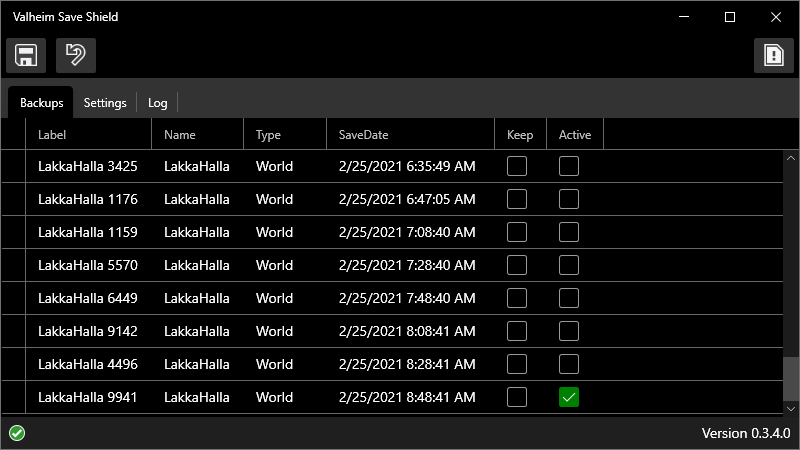
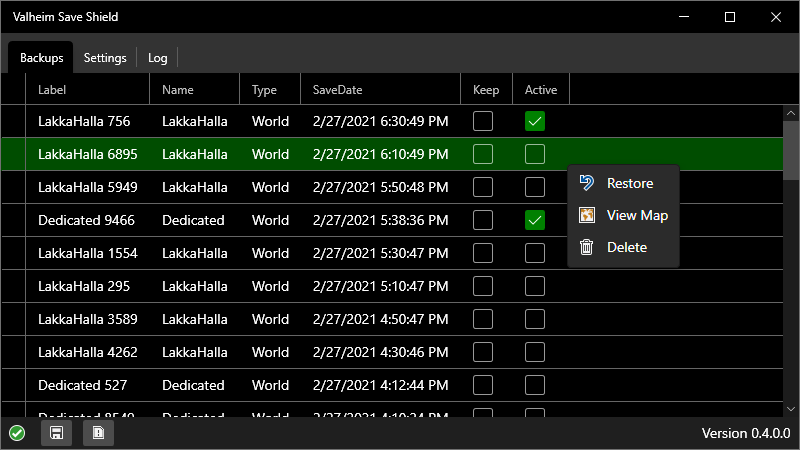
Support for multiple save folders.

diff --git a/MainWindow.xaml b/MainWindow.xaml
@@ -22,26 +22,21 @@
     </Window.Resources>
     <Grid>
         <Grid.RowDefinitions>
-            <RowDefinition x:Name="ForToolbar"  Height="45" />
+            <!--<RowDefinition x:Name="ForToolbar"  Height="45" />-->
             <RowDefinition x:Name="ForBackups"  Height="*" />
             <RowDefinition x:Name="ForStatusbar" Height="Auto" />
         </Grid.RowDefinitions>
-        <Grid Grid.Row="0">
+        <!--<Grid Grid.Row="0">
             <Grid.ColumnDefinitions>
                 <ColumnDefinition Width="Auto"/>
                 <ColumnDefinition Width="*"/>
                 <ColumnDefinition Width="Auto"/>
             </Grid.ColumnDefinitions>
-            <Button x:Name="btnBackup" HorizontalAlignment="Left" VerticalAlignment="Top" Click="BtnBackup_Click" ToolTip="Backup current save" Margin="5" TabIndex="1" Grid.Column="0">
+            <<Button x:Name="btnBackup" HorizontalAlignment="Left" VerticalAlignment="Top" Click="BtnBackup_Click" ToolTip="Backup current save" Margin="5" TabIndex="1" Grid.Column="0">
                 <DynamicResource ResourceKey="Save"/>
             </Button>
-            <Button x:Name="btnReportBug" Margin="5" Grid.Column="3" ToolTip="Report a bug" Click="btnReportBug_Click">
-                <Button.Content>
-                    <Image Source="Resources\Bug_32x.png"/>
-                </Button.Content>
-            </Button>
-        </Grid>
-        <TabControl Grid.Row="1" TabIndex="5">
+        </Grid>-->
+        <TabControl Grid.Row="0" TabIndex="5">
             <TabItem x:Name="tabBackups" Header="Backups">
                 <DataGrid x:Name="dataBackups" BeginningEdit="DataBackups_BeginningEdit" SelectionMode="Single" CanUserDeleteRows="False" CellEditEnding="DataBackups_CellEditEnding" AutoGeneratingColumn="DataBackups_AutoGeneratingColumn">
                     <DataGrid.ContextMenu>
@@ -49,6 +44,11 @@
                             <MenuItem x:Name="menuBackupsRestore" Header="Restore" Click="menuBackupsRestore_Click">
                                 <MenuItem.Icon>
                                     <DynamicResource ResourceKey="Restore"/>
+                                </MenuItem.Icon>
+                            </MenuItem>
+                            <MenuItem x:Name="menuBackupsViewMap" Header="View Map" Click="menuBackupsViewMap_Click">
+                                <MenuItem.Icon>
+                                    <Image Source="Resources/MapTileLayer_32x.png"/>
                                 </MenuItem.Icon>
                             </MenuItem>
                             <MenuItem x:Name="menuBackupsDelete" Header="Delete" Click="menuBackupsDelete_Click">
@@ -76,13 +76,13 @@
                         <ColumnDefinition Width="Auto"/>
                         <ColumnDefinition Width="*"/>
                     </Grid.ColumnDefinitions>
-                    <CheckBox x:Name="chkAutoBackup" Content="Automatically backup save files" ToolTip="Monitor save files and back them up when they're changed" HorizontalAlignment="Left" Margin="10,2,0,2" VerticalAlignment="Top" Click="ChkAutoBackup_Click" Grid.Row="0" Grid.ColumnSpan="2" TabIndex="101" Checked="ChkAutoBackup_Click" Unchecked="ChkAutoBackup_Click"/>
-                    <TextBox x:Name="txtBackupMins" HorizontalAlignment="Left" Margin="10,2,0,2" TextWrapping="Wrap" VerticalAlignment="Center" Grid.Row="1" Grid.ColumnSpan="2" Width="64" LostFocus="TxtBackupMins_LostFocus" KeyUp="TxtBackupMins_KeyUp" TabIndex="102"/>
+                    <CheckBox x:Name="chkAutoBackup" Content="Automatically backup save files" ToolTip="Monitor save files and back them up when they're changed" HorizontalAlignment="Left" Margin="10,2,0,2" VerticalAlignment="Top" Click="ChkAutoBackup_Click" Grid.Row="0" Grid.ColumnSpan="2" Checked="ChkAutoBackup_Click" Unchecked="ChkAutoBackup_Click"/>
+                    <TextBox x:Name="txtBackupMins" HorizontalAlignment="Left" Margin="10,2,0,2" TextWrapping="Wrap" VerticalAlignment="Center" Grid.Row="1" Grid.ColumnSpan="2" Width="64" LostFocus="TxtBackupMins_LostFocus" KeyUp="TxtBackupMins_KeyUp"/>
                     <Label Content="Minutes between backups" ToolTip="Minimum amount of time that must have passed since last backup before a new backup is made" HorizontalAlignment="Left" Margin="90,2,0,2" VerticalAlignment="Center" Grid.Row="1" Grid.ColumnSpan="2"/>
-                    <TextBox x:Name="txtBackupLimit" HorizontalAlignment="Left" Margin="10,2,0,2" TextWrapping="Wrap" VerticalAlignment="Center" Width="64" Grid.Row="2" Grid.ColumnSpan="2" KeyUp="TxtBackupLimit_KeyUp" LostFocus="TxtBackupLimit_LostFocus" TabIndex="103"/>
+                    <TextBox x:Name="txtBackupLimit" HorizontalAlignment="Left" Margin="10,2,0,2" TextWrapping="Wrap" VerticalAlignment="Center" Width="64" Grid.Row="2" Grid.ColumnSpan="2" KeyUp="TxtBackupLimit_KeyUp" LostFocus="TxtBackupLimit_LostFocus"/>
                     <Label Content="Backups to keep (0 for unlimited)" ToolTip="When the number of backups for a world or character reaches this number, backups will automatically be deleted starting with the oldest" HorizontalAlignment="Left" Margin="90,2,0,2" VerticalAlignment="Center" Grid.Row="2" Grid.ColumnSpan="2" />
-                    <Label Content="Save Folders" ToolTip="Only change if you know what you're doing." HorizontalAlignment="Center" Margin="10" VerticalAlignment="Top" Grid.Row="3" Grid.Column="0" />
-                    <ListBox x:Name="lstSaveFolders" Margin="0,2,10,2" VerticalAlignment="Center" TabIndex="6" Height="Auto" IsTabStop="True" ToolTip="Where your Valheim saves are located. Right-click for more options." Grid.Row="3" Grid.Column="1" ContextMenuOpening="lstSaveFolders_ContextMenuOpening">
+                    <Label x:Name="lblSaveFolders" Content="Save Folder" ToolTip="Only change if you know what you're doing." HorizontalAlignment="Center" Margin="10" VerticalAlignment="Top" Grid.Row="3" Grid.Column="0" />
+                    <ListBox x:Name="lstSaveFolders" Margin="0,2,10,2" VerticalAlignment="Center" Height="Auto" ToolTip="Where your Valheim saves are located. Right-click for more options." Grid.Row="3" Grid.Column="1" ContextMenuOpening="lstSaveFolders_ContextMenuOpening">
                         <ListBox.ContextMenu>
                             <ContextMenu x:Name="menuSaveFolders">
                                 <MenuItem x:Name="menuSavePathOpen2" Header="Open in Windows Explorer" Click="menuSavePathOpen_Click">
@@ -90,18 +90,18 @@
                                         <Image Source="Resources/OpenFolder_32x.png"/>
                                     </MenuItem.Icon>
                                 </MenuItem>
-                                <MenuItem x:Name="menuSavePathAdd" Header="Add save path" Click="menuSavePathAdd_Click">
+                                <MenuItem x:Name="menuSavePathAdd" Header="Add save folder" Click="menuSavePathAdd_Click">
                                     <MenuItem.Icon>
                                         <Image Source="Resources/Add_32x.png"/>
                                     </MenuItem.Icon>
                                 </MenuItem>
                                 <Separator/>
-                                <MenuItem x:Name="menuSavePathEdit" Header="Edit save path" Click="menuSavePathEdit_Click">
+                                <MenuItem x:Name="menuSavePathEdit" Header="Edit save folder" Click="menuSavePathEdit_Click">
                                     <MenuItem.Icon>
                                         <DynamicResource ResourceKey="EditGrey"/>
                                     </MenuItem.Icon>
                                 </MenuItem>
-                                <MenuItem x:Name="menuSavePathRemove" Header="Remove save path" Click="menuSavePathRemove_Click">
+                                <MenuItem x:Name="menuSavePathRemove" Header="Remove save folder" Click="menuSavePathRemove_Click">
                                     <MenuItem.Icon>
                                         <DynamicResource ResourceKey="RemoveGrey"/>
                                     </MenuItem.Icon>
@@ -109,7 +109,7 @@
                             </ContextMenu>
                         </ListBox.ContextMenu>
                     </ListBox>
-                    <Button x:Name="btnBackupFolder" Content="Backup Folder" HorizontalAlignment="Left" Margin="10,2,10,2" VerticalAlignment="Center" Click="BtnBackupFolder_Click" TabIndex="104" Grid.Row="4" Grid.Column="0" />
+                    <Button x:Name="btnBackupFolder" Content="Backup Folder" HorizontalAlignment="Left" Margin="10,2,10,2" VerticalAlignment="Center" Click="BtnBackupFolder_Click" Grid.Row="4" Grid.Column="0" />
                     <TextBox x:Name="txtBackupFolder" ToolTip="Where your save backups are stored" Margin="0,2,10,2" TextWrapping="Wrap" VerticalAlignment="Center" IsReadOnly="True" TabIndex="-1" IsTabStop="False" Grid.Row="4" Grid.Column="1">
                         <TextBox.ContextMenu>
                             <ContextMenu>
@@ -122,10 +122,10 @@
                         </TextBox.ContextMenu>
                     </TextBox>
                     <Button x:Name="btnFtpImport" Content="FTP Import" HorizontalAlignment="Stretch" Margin="10,2,10,2" VerticalAlignment="Center" ToolTip="Only change if you know what you're doing!" Click="btnFtpImport_Click" Grid.Row="5" Grid.Column="0"/>
-                    <TextBox x:Name="txtFtpImport" Margin="0,2,10,2" TextWrapping="Wrap" VerticalAlignment="Center" TabIndex="6" IsTabStop="False" IsReadOnly="True" ToolTip="If you have a remote dedicated server with FTP access, you can back up that server's saves" Grid.Row="5" Grid.Column="1"/>
-                    <CheckBox x:Name="chkCreateLogFile" Content="Create log file" ToolTip="Whether a log.txt file should be created" HorizontalAlignment="Left" Margin="10,2,0,2" VerticalAlignment="Center" TabIndex="105" Grid.Row="6" Grid.ColumnSpan="2" Checked="chkCreateLogFile_Click" Unchecked="chkCreateLogFile_Click"/>
+                    <TextBox x:Name="txtFtpImport" Margin="0,2,10,2" TextWrapping="Wrap" VerticalAlignment="Center" IsTabStop="False" IsReadOnly="True" ToolTip="If you have a remote dedicated server with FTP access, you can back up that server's saves" Grid.Row="5" Grid.Column="1"/>
+                    <CheckBox x:Name="chkCreateLogFile" Content="Create log file" ToolTip="Whether a log.txt file should be created" HorizontalAlignment="Left" Margin="10,2,0,2" VerticalAlignment="Center" Grid.Row="6" Grid.ColumnSpan="2" Checked="chkCreateLogFile_Click" Unchecked="chkCreateLogFile_Click"/>
                     <CheckBox x:Name="chkAutoCheckUpdate" Content="Automatically check for update" HorizontalAlignment="Left" Margin="10,5,0,10" VerticalAlignment="Center" Grid.Row="7" Grid.ColumnSpan="2" Checked="chkAutoCheckUpdate_Click"/>
-                    <Button x:Name="btnAppUpdate" Content="Check Now" ToolTip="Check to see if there's a new version of this program available" HorizontalAlignment="Left" Margin="250,5,0,10" VerticalAlignment="Center" Click="btnAppUpdate_Click" TabIndex="106" Grid.Row="7" Grid.ColumnSpan="2" />
+                    <Button x:Name="btnAppUpdate" Content="Check Now" ToolTip="Check to see if there's a new version of this program available" HorizontalAlignment="Left" Margin="250,5,0,10" VerticalAlignment="Center" Click="btnAppUpdate_Click" Grid.Row="7" Grid.ColumnSpan="2" />
                 </Grid>
             </TabItem>
             <TabItem x:Name="tabLog" Header="Log">
@@ -134,11 +134,23 @@
                 </Grid>
             </TabItem>
         </TabControl>
-        <StatusBar Grid.Row="2">
+        <StatusBar Grid.Row="1">
             <StatusBarItem HorizontalAlignment="Left">
                 <Label x:Name="lblStatus" HorizontalAlignment="Left" VerticalAlignment="Top" Margin="5,0" ToolTip="Not backed up" Height="26" VerticalContentAlignment="Center">
                     <DynamicResource ResourceKey="StatusNo"/>
                 </Label>
+            </StatusBarItem>
+            <StatusBarItem HorizontalAlignment="Left">
+                <Button x:Name="btnBackup" Click="BtnBackup_Click" ToolTip="Backup current save"  HorizontalAlignment="Left" VerticalAlignment="Top" Margin="5,0" Height="26" VerticalContentAlignment="Center">
+                    <DynamicResource ResourceKey="Save"/>
+                </Button>
+            </StatusBarItem>
+            <StatusBarItem HorizontalAlignment="Left">
+                <Button x:Name="btnReportBug" Height="26" ToolTip="Report a bug" Click="btnReportBug_Click">
+                    <Button.Content>
+                        <Image Source="Resources\Bug_32x.png"/>
+                    </Button.Content>
+                </Button>
             </StatusBarItem>
             <StatusBarItem HorizontalAlignment="Right">
                 <Label x:Name="lblLastMessage" Content="" HorizontalAlignment="Left" VerticalContentAlignment="Center" Margin="5,0"/>

diff --git a/MainWindow.xaml.cs b/MainWindow.xaml.cs
@@ -172,6 +172,14 @@ namespace ValheimSaveShield
                     saveWatchers.Add(watcher);
                 }
                 lstSaveFolders.Items.Refresh();
+                if (lstSaveFolders.Items.Count > 1)
+                {
+                    lblSaveFolders.Content = "Save Folders";
+                }
+                else
+                {
+                    lblSaveFolders.Content = "Save Folder";
+                }
             }
             else if (Properties.Settings.Default.SaveFolder.Length != 0 && Directory.Exists(Properties.Settings.Default.SaveFolder))
             {
@@ -197,7 +205,6 @@ namespace ValheimSaveShield
             saveTimers = new Dictionary<string, SaveTimer>();
 
             listBackups = new List<SaveBackup>();
-
             notifyIcon = new System.Windows.Forms.NotifyIcon();
             notifyIcon.BalloonTipText = "VSS has been minimized. Click the tray icon to restore.";
             notifyIcon.BalloonTipClicked += NotifyIcon_Click;
@@ -321,7 +328,8 @@ namespace ValheimSaveShield
                         listBackups.Add(backup);
                     }
                 }
-                listBackups.Sort();
+                //listBackups.Sort();
+                listBackups = listBackups.OrderByDescending(x => x.SaveDate).ToList();
                 dataBackups.ItemsSource = listBackups;
                 if (listBackups.Count > 0)
                 {
@@ -383,7 +391,14 @@ namespace ValheimSaveShield
                 run.Foreground = new SolidColorBrush(color);
                 Paragraph paragraph = new Paragraph(run);
                 paragraph.Margin = new Thickness(0);
-                txtLog.Document.Blocks.Add(paragraph);
+                if (txtLog.Document.Blocks.Count > 0)
+                {
+                    txtLog.Document.Blocks.InsertBefore(txtLog.Document.Blocks.FirstBlock, paragraph);
+                }
+                else
+                {
+                    txtLog.Document.Blocks.Add(paragraph);
+                }
                 if (msg.Contains("\n"))
                 {
                     lblLastMessage.Content = msg.Split('\n')[0];
@@ -444,6 +459,8 @@ namespace ValheimSaveShield
                     {
                         listBackups.Add(backup);
                         checkBackupLimits();
+                        listBackups = listBackups.OrderByDescending(x => x.SaveDate).ToList();
+                        dataBackups.ItemsSource = listBackups;
                         dataBackups.Items.Refresh();
                         this.IsBackupCurrent = this.IsBackupCurrent;
                         logMessage($"Backup of {backup.Type.ToLower()} {backup.Name} completed!", LogType.Success);
@@ -1283,6 +1300,7 @@ namespace ValheimSaveShield
                     Directory.CreateDirectory($@"{folderName}\characters");
                 }
                 lstSaveFolders.Items.Add(folderName);
+                lblSaveFolders.Content = "Save Folders";
                 var watcher = new SaveWatcher(folderName);
                 watcher.LogMessage += SaveWatcher_LogMessage;
                 watcher.WorldWatcher.Changed += OnSaveFileChanged;
@@ -1386,6 +1404,14 @@ namespace ValheimSaveShield
                 Properties.Settings.Default.FtpSaveDest = Properties.Settings.Default.SaveFolders[0];
                 logMessage($"Local FTP destination folder changed to {Properties.Settings.Default.SaveFolders[0]}.");
             }
+            if (lstSaveFolders.Items.Count > 1)
+            {
+                lblSaveFolders.Content = "Save Folders";
+            }
+            else
+            {
+                lblSaveFolders.Content = "Save Folder";
+            }
             Properties.Settings.Default.Save();
         }
 
@@ -1448,6 +1474,14 @@ namespace ValheimSaveShield
                     menuBackupsRestore.Icon = FindResource("RestoreGrey");
                 }
             }
+            if (selectedBackup.Type == "World")
+            {
+                menuBackupsViewMap.Visibility = Visibility.Visible;
+            }
+            else
+            {
+                menuBackupsViewMap.Visibility = Visibility.Collapsed;
+            }
         }
 
         private void menuBackupsRestore_Click(object sender, RoutedEventArgs e)
@@ -1477,6 +1511,48 @@ namespace ValheimSaveShield
         {
             InvalidateMeasure();
             InvalidateVisual();
+        }
+
+        private void menuBackupsViewMap_Click(object sender, RoutedEventArgs e)
+        {
+            try
+            {
+                var selectedBackup = (SaveBackup)dataBackups.SelectedItem;
+                var fwl = File.ReadAllText($@"{selectedBackup.Folder}\{selectedBackup.Name}.fwl");
+                var lines = fwl.Split('\n');
+                var seed = lines[lines.Length - 1].Substring(0, 10);
+                Process.Start($"http://valheim-map.world/?seed={seed}&offset=0%2C0&zoom=0.600");
+
+                //Get boss coordinates. Not currently very useful.
+                /*var bosses = new List<string>();
+                bosses.Add("Eikthyrnir");
+                bosses.Add("GDKing");
+                bosses.Add("Bonemass");
+                bosses.Add("Dragonqueen");
+                bosses.Add("GoblinKing");
+                bosses.Add("Vendor_BlackForest");
+                byte[] byteBuffer = File.ReadAllBytes(selectedBackup.FullPath);
+                string byteBufferAsString = System.Text.Encoding.Default.GetString(byteBuffer);
+                foreach (var keyval in bosses)
+                {
+                    Debug.WriteLine(keyval);
+                    for (var offset = byteBufferAsString.IndexOf(keyval); offset != -1; offset = byteBufferAsString.IndexOf(keyval, offset))
+                    {
+                        var xstring = byteBufferAsString.Substring(offset + keyval.Length, 4);
+                        var xfloat = System.BitConverter.ToSingle(System.Text.Encoding.Default.GetBytes(xstring), 0);
+                        var xint = (int)Math.Round(xfloat);
+                        var ystring = byteBufferAsString.Substring(offset + keyval.Length + 8, 4);
+                        var yfloat = System.BitConverter.ToSingle(System.Text.Encoding.Default.GetBytes(ystring), 0);
+                        var yint = (int)Math.Round(yfloat);
+                        Debug.WriteLine($"{xint}, {yint}");
+                        offset += keyval.Length + 12;
+                    }
+                }*/
+            }
+            catch (Exception ex)
+            {
+                logMessage($"Error showing map: {ex.Message}", LogType.Error);
+            }
         }
     }
 

diff --git a/Properties/AssemblyInfo.cs b/Properties/AssemblyInfo.cs
@@ -51,5 +51,5 @@ using System.Windows;
 // You can specify all the values or you can default the Build and Revision Numbers
 // by using the '*' as shown below:
 // [assembly: AssemblyVersion("1.0.*")]
-[assembly: AssemblyVersion("0.3.4.0")]
-[assembly: AssemblyFileVersion("0.3.4.0")]
+[assembly: AssemblyVersion("0.4.0.0")]
+[assembly: AssemblyFileVersion("0.4.0.0")]
